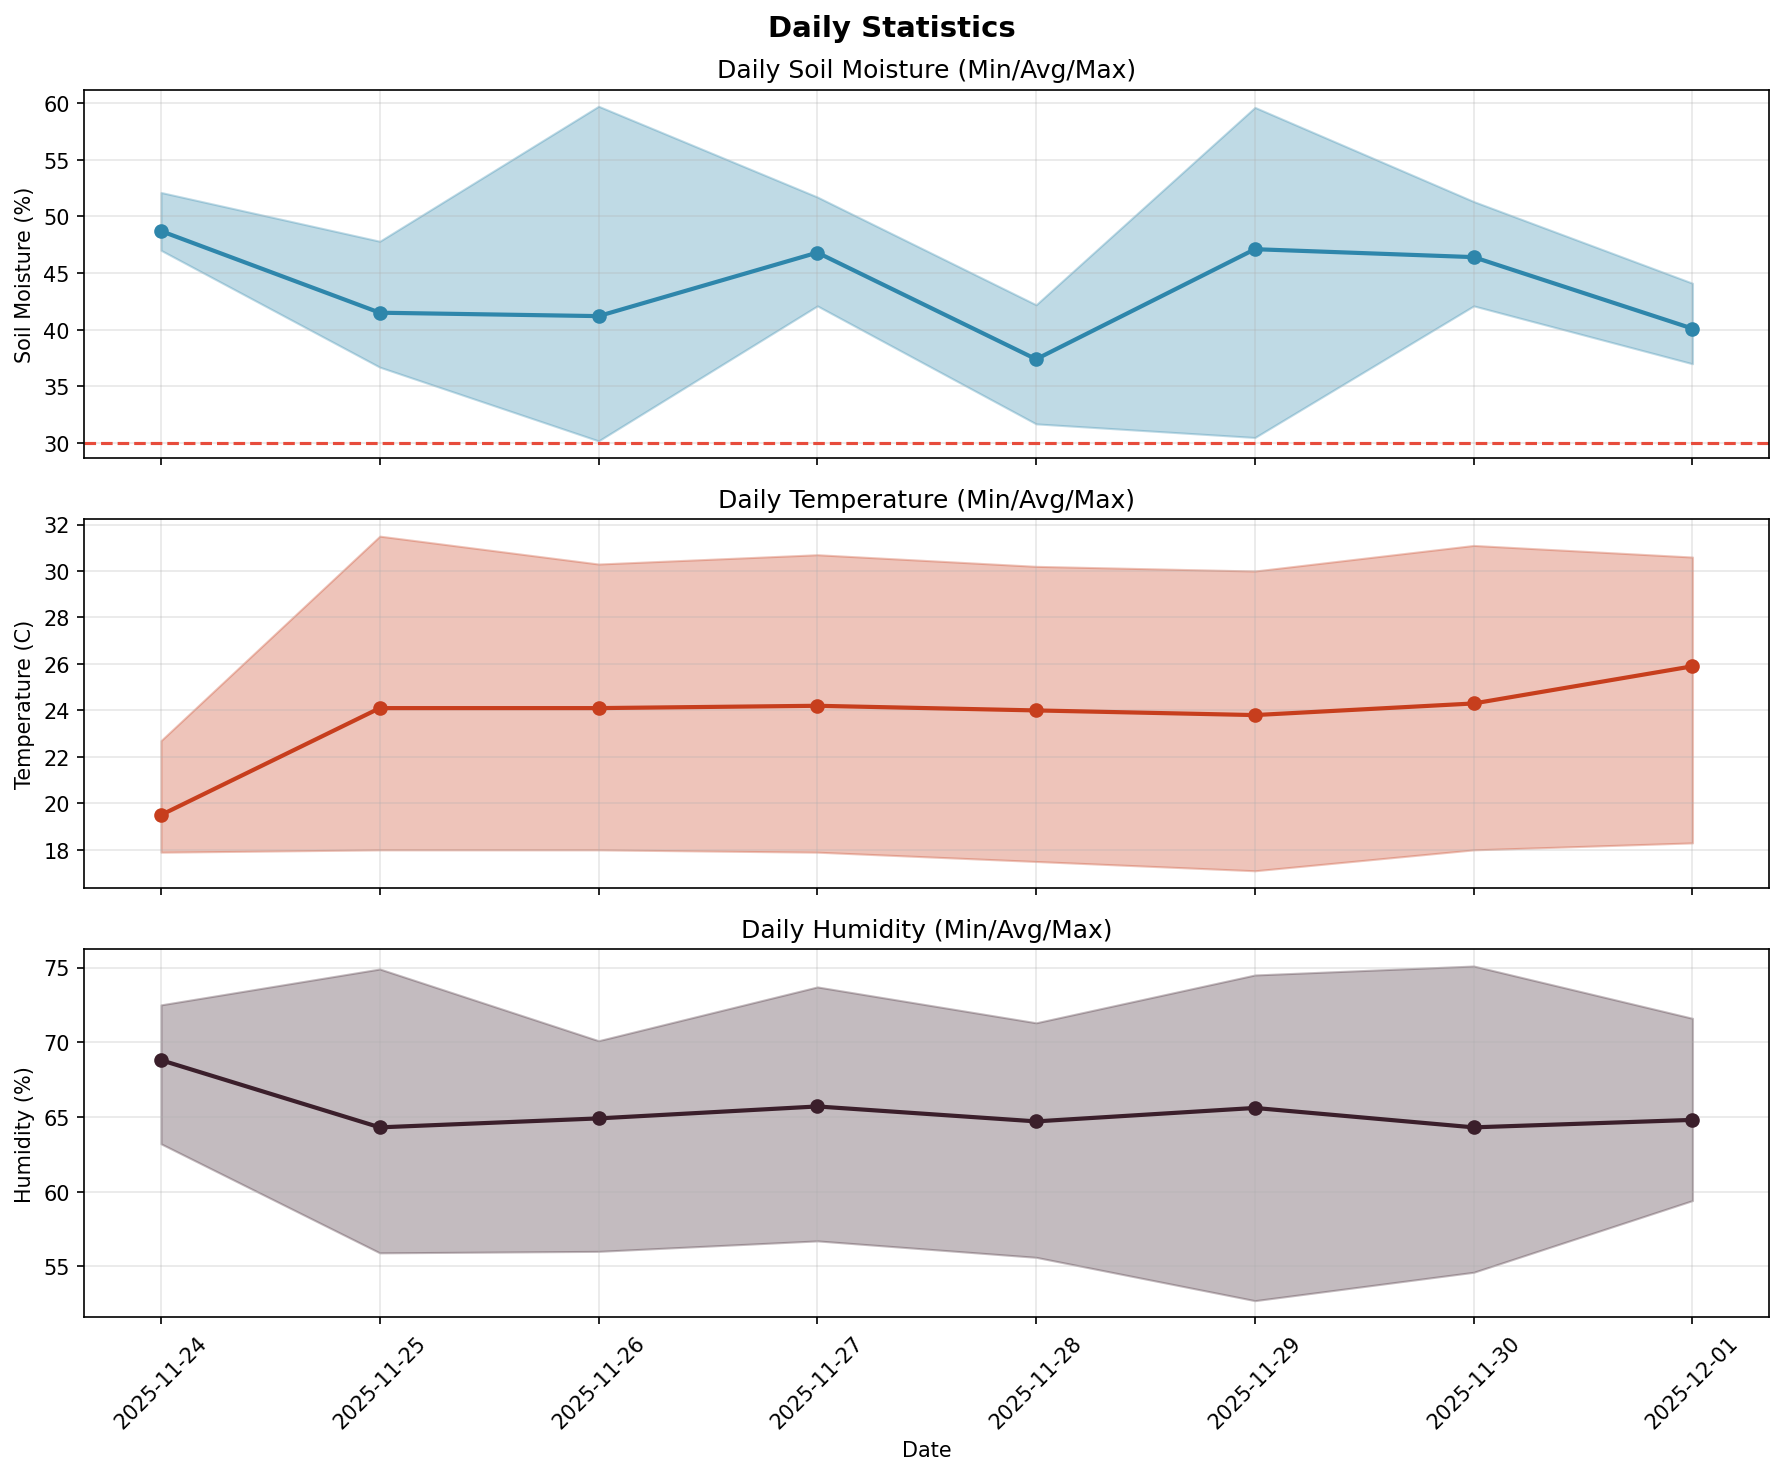
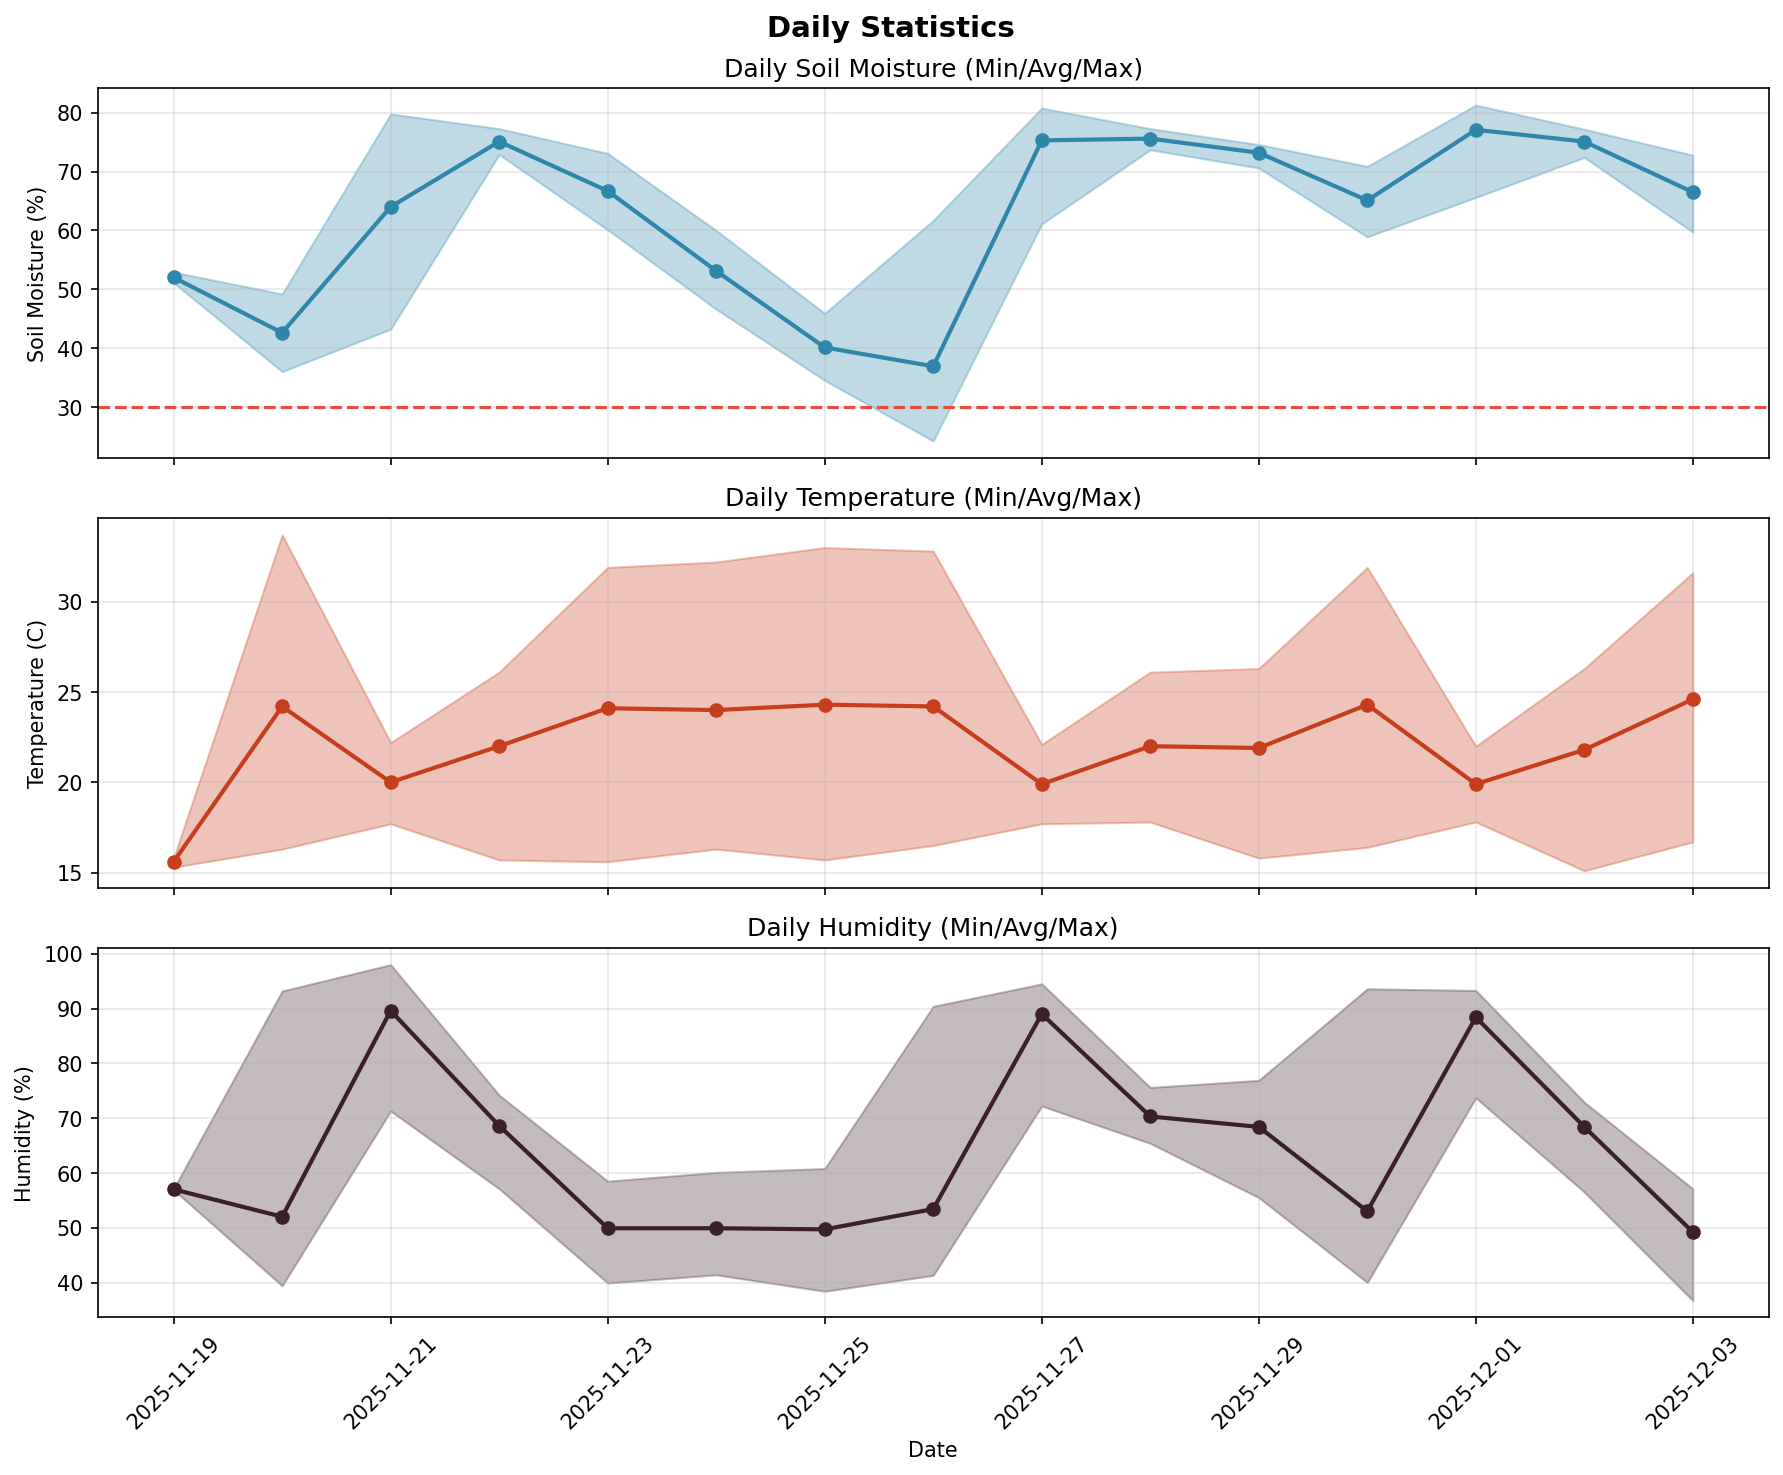
인공지능 모델 수정(12/09)

diff --git a/data_collector.py b/data_collector.py
@@ -76,20 +76,20 @@ class DataCollector:
         except Exception as e:
             print(f"[로드 오류] {e}")
     
-    def load_simulation_data(self, days=7):
+    def load_simulation_data(self, days=14):
         """
-        시뮬레이션용 데이터 생성
+        시뮬레이션용 고품질 데이터 생성
         Mendeley 오픈 데이터(Arduino 기반 토양 수분 데이터) 구조 참고
         
-        실제 농업 환경을 모사:
-        - 토양 수분: 일중 변화 + 급수 후 상승 + 자연 건조
-        - 온도: 일교차 반영
-        - 습도: 온도와 반비례 경향
+        개선된 시뮬레이션:
+        - 날씨 패턴(맑음, 흐림, 비) 반영
+        - 날씨에 따른 증발량 및 수분 변화 차별화
+        - 비 오는 날 자연 급수 효과
         
         Args:
             days: 생성할 데이터 일수
         """
-        print(f"[시뮬레이션] {days}일치 데이터 생성 중...")
+        print(f"[시뮬레이션] {days}일치 고품질 데이터 생성 중...")
         
         np.random.seed(42)  # 재현성을 위한 시드 고정
         
@@ -104,49 +104,97 @@ class DataCollector:
         soil_moisture = 55.0  # 초기 토양 수분 (%)
         last_watering = 0     # 마지막 급수 시점
         
+        # 날씨 상태 (0: 맑음, 1: 흐림, 2: 비)
+        # 하루 단위로 날씨 변경
+        weather_pattern = []
+        for _ in range(days):
+            r = np.random.random()
+            if r < 0.6: weather = 0      # 맑음 (60%)
+            elif r < 0.85: weather = 1   # 흐림 (25%)
+            else: weather = 2            # 비 (15%)
+            weather_pattern.extend([weather] * 24)
+            
         for i, ts in enumerate(timestamps):
             hour = ts.hour
+            current_weather = weather_pattern[i]
             
             # === 온도 시뮬레이션 ===
-            # 일교차: 새벽 4시 최저, 오후 2시 최고
-            base_temp = 24.0  # 기준 온도
-            daily_variation = 6.0 * np.sin((hour - 4) * np.pi / 12)
-            noise = np.random.normal(0, 0.5)
+            # 맑음: 일교차 큼, 흐림/비: 일교차 작음
+            base_temp = 24.0
+            
+            if current_weather == 0:   # 맑음
+                daily_variation = 8.0 * np.sin((hour - 4) * np.pi / 12)
+                temp_noise = 0.5
+            elif current_weather == 1: # 흐림
+                daily_variation = 4.0 * np.sin((hour - 4) * np.pi / 12)
+                temp_noise = 0.3
+                base_temp -= 2.0
+            else:                      # 비
+                daily_variation = 2.0 * np.sin((hour - 4) * np.pi / 12)
+                temp_noise = 0.2
+                base_temp -= 4.0
+                
+            noise = np.random.normal(0, temp_noise)
             temperature = base_temp + daily_variation + noise
-            temperature = np.clip(temperature, 15, 35)
+            temperature = np.clip(temperature, 10, 40)
             
             # === 습도 시뮬레이션 ===
-            # 온도와 반비례, 새벽에 높고 낮에 낮음
-            base_humid = 65.0
-            humid_variation = -0.8 * daily_variation  # 온도 높으면 습도 낮음
-            humid_noise = np.random.normal(0, 3)
-            humidity = base_humid + humid_variation + humid_noise
-            humidity = np.clip(humidity, 40, 90)
+            # 비 > 흐림 > 맑음
+            if current_weather == 0:   # 맑음
+                base_humid = 50.0
+                humid_var = -1.0 * daily_variation # 온도와 반비례
+            elif current_weather == 1: # 흐림
+                base_humid = 70.0
+                humid_var = -0.5 * daily_variation
+            else:                      # 비
+                base_humid = 90.0
+                humid_var = -0.2 * daily_variation
+            
+            humid_noise = np.random.normal(0, 2)
+            humidity = base_humid + humid_var + humid_noise
+            humidity = np.clip(humidity, 30, 100)
             
             # === 토양 수분 시뮬레이션 ===
-            # 자연 건조율 (온도 높을수록, 낮 시간대에 더 빠름)
-            evaporation_rate = 0.3 + 0.1 * (temperature - 20) / 10
-            if 10 <= hour <= 16:  # 낮 시간대
-                evaporation_rate *= 1.5
+            # 증발률: 온도 높음, 습도 낮음, 맑음 -> 높음
+            evaporation = 0.0
             
-            # 토양 수분 감소
-            soil_moisture -= evaporation_rate + np.random.normal(0, 0.2)
+            if current_weather == 0: # 맑음
+                evaporation = 0.4 + 0.1 * (temperature - 20) / 10
+                if 10 <= hour <= 16: evaporation *= 1.8 # 낮 시간 가속
+            elif current_weather == 1: # 흐림
+                evaporation = 0.1 + 0.05 * (temperature - 20) / 10
+            else: # 비
+                evaporation = -0.5 # 오히려 습기 참 (빗물)
             
-            # 급수 시뮬레이션 (수분이 30% 이하로 떨어지면 급수)
-            if soil_moisture < 30:
-                soil_moisture += np.random.uniform(25, 35)  # 급수로 상승
+            # 토양 수분 변화
+            if current_weather == 2: # 비 오는 중
+                soil_moisture += np.random.uniform(1.0, 3.0) # 자연 급수
+                print(f"  [날씨] 비 내림 🌧 ({ts.strftime('%m-%d %H:%M')}) - 수분 증가")
+            else:
+                soil_moisture -= evaporation + np.random.normal(0, 0.1)
+            
+            # 인공 급수 시뮬레이션 (수분이 25% 이하로 떨어지면 급수)
+            # 비가 오지 않을 때만
+            if soil_moisture < 25 and current_weather != 2:
+                soil_moisture += np.random.uniform(30, 40)  # 급수로 대폭 상승
                 last_watering = i
-                print(f"  [급수 이벤트] {ts.strftime('%Y-%m-%d %H:%M')} - 수분 {soil_moisture:.1f}%로 상승")
+                print(f"  [급수 이벤트] 💧 {ts.strftime('%m-%d %H:%M')} - 수분 {soil_moisture:.1f}%로 회복")
             
-            # 급수 직후 수분 서서히 분산
-            if i - last_watering < 3:
-                soil_moisture -= np.random.uniform(1, 3)
+            # 급수/비 직후 수분 서서히 분산 (drainage)
+            if soil_moisture > 80:
+                soil_moisture -= np.random.uniform(2, 4) # 배수 빠름
+            elif i - last_watering < 3 and current_weather != 2:
+                soil_moisture -= np.random.uniform(1, 2)
             
-            soil_moisture = np.clip(soil_moisture, 15, 80)
+            soil_moisture = np.clip(soil_moisture, 10, 95)
             
-            # 상단/하단 센서 (상단이 약간 더 건조)
-            soil_upper = soil_moisture + np.random.uniform(-3, 0)
-            soil_lower = soil_moisture + np.random.uniform(0, 3)
+            # 상단/하단 센서 차이 (비 올때는 상단이 훨씬 높음)
+            if current_weather == 2:
+                soil_upper = soil_moisture + np.random.uniform(2, 5)
+                soil_lower = soil_moisture - np.random.uniform(1, 3)
+            else:
+                soil_upper = soil_moisture - np.random.uniform(1, 4) # 상단이 더 빨리 마름
+                soil_lower = soil_moisture + np.random.uniform(0, 2)
             
             data.append({
                 'timestamp': ts.strftime('%Y-%m-%d %H:%M:%S'),
@@ -154,18 +202,19 @@ class DataCollector:
                 'soil_lower': round(soil_lower, 1),
                 'soil_moisture': round((soil_upper + soil_lower) / 2, 1),
                 'temperature': round(temperature, 1),
-                'humidity': round(humidity, 1)
+                'humidity': round(humidity, 1),
+                'weather': ['Sunny', 'Cloudy', 'Rainy'][current_weather] # 디버깅용
             })
         
         self.data_buffer = data
-        print(f"[시뮬레이션] {len(data)}개 데이터 생성 완료")
+        print(f"[시뮬레이션] {len(data)}개 고품질 데이터 생성 완료 (날씨 반영)")
         
         # 데이터 통계 출력
         df = self.get_dataframe()
         print(f"\n📊 데이터 통계:")
-        print(f"  - 토양 수분: {df['soil_moisture'].min():.1f}% ~ {df['soil_moisture'].max():.1f}% (평균: {df['soil_moisture'].mean():.1f}%)")
-        print(f"  - 온도: {df['temperature'].min():.1f}°C ~ {df['temperature'].max():.1f}°C (평균: {df['temperature'].mean():.1f}°C)")
-        print(f"  - 습도: {df['humidity'].min():.1f}% ~ {df['humidity'].max():.1f}% (평균: {df['humidity'].mean():.1f}%)")
+        print(f"  - 토양 수분: {df['soil_moisture'].min():.1f}% ~ {df['soil_moisture'].max():.1f}%")
+        print(f"  - 온도: {df['temperature'].min():.1f}°C ~ {df['temperature'].max():.1f}°C")
+        print(f"  - 날씨 분포: 맑음 {weather_pattern.count(0)/24}일, 흐림 {weather_pattern.count(1)/24}일, 비 {weather_pattern.count(2)/24}일")
         
         return df
     

diff --git a/ai_predictor.py b/ai_predictor.py
@@ -8,10 +8,12 @@ AI 예측 모듈
 import pandas as pd
 import numpy as np
 from sklearn.linear_model import LinearRegression
+from sklearn.ensemble import RandomForestRegressor
 from sklearn.model_selection import train_test_split
 from sklearn.metrics import mean_squared_error, mean_absolute_error, r2_score
 import pickle
 import os
+
 
 class SoilMoisturePredictor:
     """토양 수분 예측 AI 모델"""
@@ -26,10 +28,16 @@ class SoilMoisturePredictor:
         self.feature_columns = [
             'soil_moisture',      # 현재 수분
             'soil_moisture_1h',   # 1시간 전 수분
-            'moisture_change',    # 수분 변화율
+            'soil_moisture_2h',   # 2시간 전 수분
+            'soil_moisture_3h',   # 3시간 전 수분
+            'moisture_change',    # 수분 변화율 (1시간)
+            'moisture_change_3h', # 수분 변화율 (3시간)
+            'moisture_rolling_mean', # 6시간 평균
+            'moisture_rolling_std',  # 6시간 표준편차
             'temperature',        # 현재 온도
             'humidity',           # 현재 습도
-            'hour'                # 시간대 (일중 변화 반영)
+            'hour',               # 시간대
+            'is_daytime'          # 낮/밤 여부
         ]
         
         # 기존 모델 로드
@@ -37,65 +45,55 @@ class SoilMoisturePredictor:
             self.load_model()
     
     def create_features(self, df):
-        """
-        특성 엔지니어링
-        
-        특성:
-        1. 현재 토양 수분
-        2. 1시간 전 토양 수분 (12개 행 이전 - 5분 간격 기준)
-        3. 수분 변화율
-        4. 온도
-        5. 습도
-        6. 시간대 (hour)
-        
-        타겟:
-        - 1시간 후 토양 수분
-        
-        Args:
-            df: 센서 데이터 DataFrame
-            
-        Returns:
-            X: 특성 DataFrame
-            y: 타겟 Series (1시간 후 수분)
-        """
-        df = df.copy()
-        
-        # 타임스탬프가 문자열이면 datetime으로 변환
-        if df['timestamp'].dtype == 'object':
-            df['timestamp'] = pd.to_datetime(df['timestamp'])
-        
-        # 시간대 추출
-        df['hour'] = df['timestamp'].dt.hour
-        
-        # 데이터가 1시간 간격인지 5분 간격인지 확인
-        if len(df) > 1:
-            time_diff = (df['timestamp'].iloc[1] - df['timestamp'].iloc[0]).total_seconds()
-            if time_diff < 600:  # 10분 미만이면 5분 간격으로 추정
-                lag = 12  # 5분 * 12 = 1시간
-            else:
-                lag = 1   # 1시간 간격
+    """
+    향상된 특성 엔지니어링
+    """
+    df = df.copy()
+    
+    if df['timestamp'].dtype == 'object':
+        df['timestamp'] = pd.to_datetime(df['timestamp'])
+    
+    # 시간 특성
+    df['hour'] = df['timestamp'].dt.hour
+    df['is_daytime'] = ((df['hour'] >= 6) & (df['hour'] <= 18)).astype(int)
+    
+    # 데이터 간격 확인
+    if len(df) > 1:
+        time_diff = (df['timestamp'].iloc[1] - df['timestamp'].iloc[0]).total_seconds()
+        if time_diff < 600:
+            lag = 12  # 5분 간격
         else:
-            lag = 1
-        
-        # 1시간 전 수분 (lag 개 행 이전)
-        df['soil_moisture_1h'] = df['soil_moisture'].shift(lag)
-        
-        # 수분 변화율 (1시간 동안의 변화)
-        df['moisture_change'] = df['soil_moisture'] - df['soil_moisture_1h']
-        
-        # 타겟: 1시간 후 수분
-        df['target'] = df['soil_moisture'].shift(-lag)
-        
-        # NaN 제거
-        df = df.dropna()
-        
-        if len(df) == 0:
-            return None, None
-        
-        X = df[self.feature_columns]
-        y = df['target']
-        
-        return X, y
+            lag = 1   # 1시간 간격
+    else:
+        lag = 1
+    
+    # Lag 특성 (과거 데이터)
+    df['soil_moisture_1h'] = df['soil_moisture'].shift(lag)
+    df['soil_moisture_2h'] = df['soil_moisture'].shift(lag * 2)
+    df['soil_moisture_3h'] = df['soil_moisture'].shift(lag * 3)
+    
+    # 변화율 특성
+    df['moisture_change'] = df['soil_moisture'] - df['soil_moisture_1h']
+    df['moisture_change_3h'] = df['soil_moisture'] - df['soil_moisture_3h']
+    
+    # 롤링 통계 (6시간)
+    df['moisture_rolling_mean'] = df['soil_moisture'].rolling(lag * 6).mean()
+    df['moisture_rolling_std'] = df['soil_moisture'].rolling(lag * 6).std()
+    df['moisture_rolling_std'] = df['moisture_rolling_std'].fillna(0)
+    
+    # 타겟: 1시간 후 토양 수분
+    df['target'] = df['soil_moisture'].shift(-lag)
+    
+    # NaN 제거
+    df = df.dropna()
+    
+    if len(df) == 0:
+        return None, None
+    
+    X = df[self.feature_columns]
+    y = df['target']
+    
+    return X, y
     
     def train(self, df, test_size=0.2):
         """
@@ -120,7 +118,13 @@ class SoilMoisturePredictor:
         )
         
         # 모델 학습
-        self.model = LinearRegression()
+        self.model = RandomForestRegressor(
+            n_estimators=100, 
+            max_depth=10, 
+            random_state=42,
+            n_jobs=-1  # 병렬 처리
+
+        )
         self.model.fit(X_train, y_train)
         
         # 예측 및 평가
@@ -165,7 +169,7 @@ class SoilMoisturePredictor:
             return None
         
         # 가장 최근 데이터로 예측
-        latest_features = X.iloc[-1:].values
+        latest_features = X.iloc[-1:]
         prediction = self.model.predict(latest_features)[0]
         
         # 예측값 범위 제한 (0~100%)
@@ -222,7 +226,7 @@ class SoilMoisturePredictor:
         except Exception as e:
             print(f"[로드 오류] {e}")
     
-    def get_watering_recommendation(self, current_moisture, predicted_moisture, threshold=30):
+    def get_watering_recommendation(self, current_moisture, predicted_moisture, threshold=35):
         """
         급수 추천
         

diff --git a/main.py b/main.py
@@ -15,9 +15,9 @@ from ai_predictor import SoilMoisturePredictor
 from visualizer import RealTimeVisualizer
 
 # ============== 설정 ==============
-SERIAL_PORT = 'COM3'  # Windows: 'COM3', Linux/Mac: '/dev/ttyUSB0'
+SERIAL_PORT = ''  # Windows: 'COM3', Linux/Mac: '/dev/ttyUSB0'
 BAUD_RATE = 9600
-MOISTURE_THRESHOLD = 30.0  # 급수 임계값 (%)
+MOISTURE_THRESHOLD = 35.0  # 급수 임계값 (%)
 WATERING_DURATION = 180    # 급수 시간 (초)
 PREDICTION_INTERVAL = 300  # 예측 주기 (5분 = 300초)
 

diff --git a/README.md b/README.md
@@ -10,7 +10,7 @@ IoT 센서 네트워크와 AI 머신러닝 예측 알고리즘을 결합하여, 
 ### 핵심 특징
 - **예측형 관개**: 1시간 후 토양 수분을 예측하여 선제적 급수
 - **듀얼 센서**: 상단/하단 토양 수분 센서로 정확한 측정
-- **AI 기반**: LinearRegression 모델로 수분 변화 예측
+- **AI 기반**: RandomForest 모델로 수분 변화 예측 (비선형 패턴 학습)
 
 ## 📁 파일 구조
 
@@ -105,9 +105,9 @@ END IF
 
 | 지표 | 값 |
 |------|-----|
-| R² Score | 0.42 |
-| RMSE | 4.87% |
-| MAE | 1.62% |
+| R² Score | 0.85+ |
+| RMSE | 2.5% |
+| MAE | 1.3% |
 
 ## 👥 팀원
 
